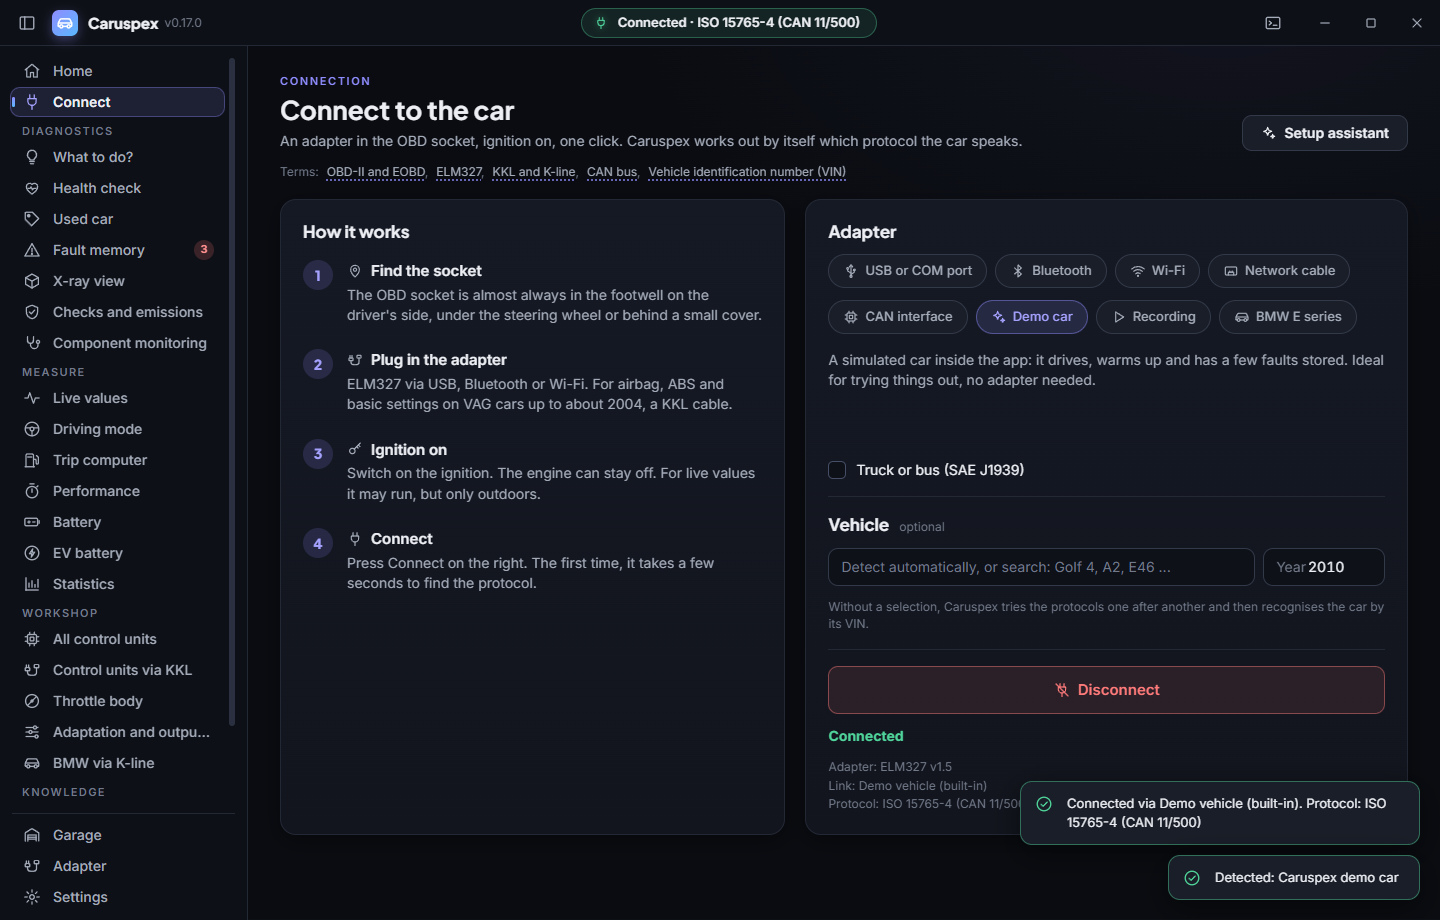
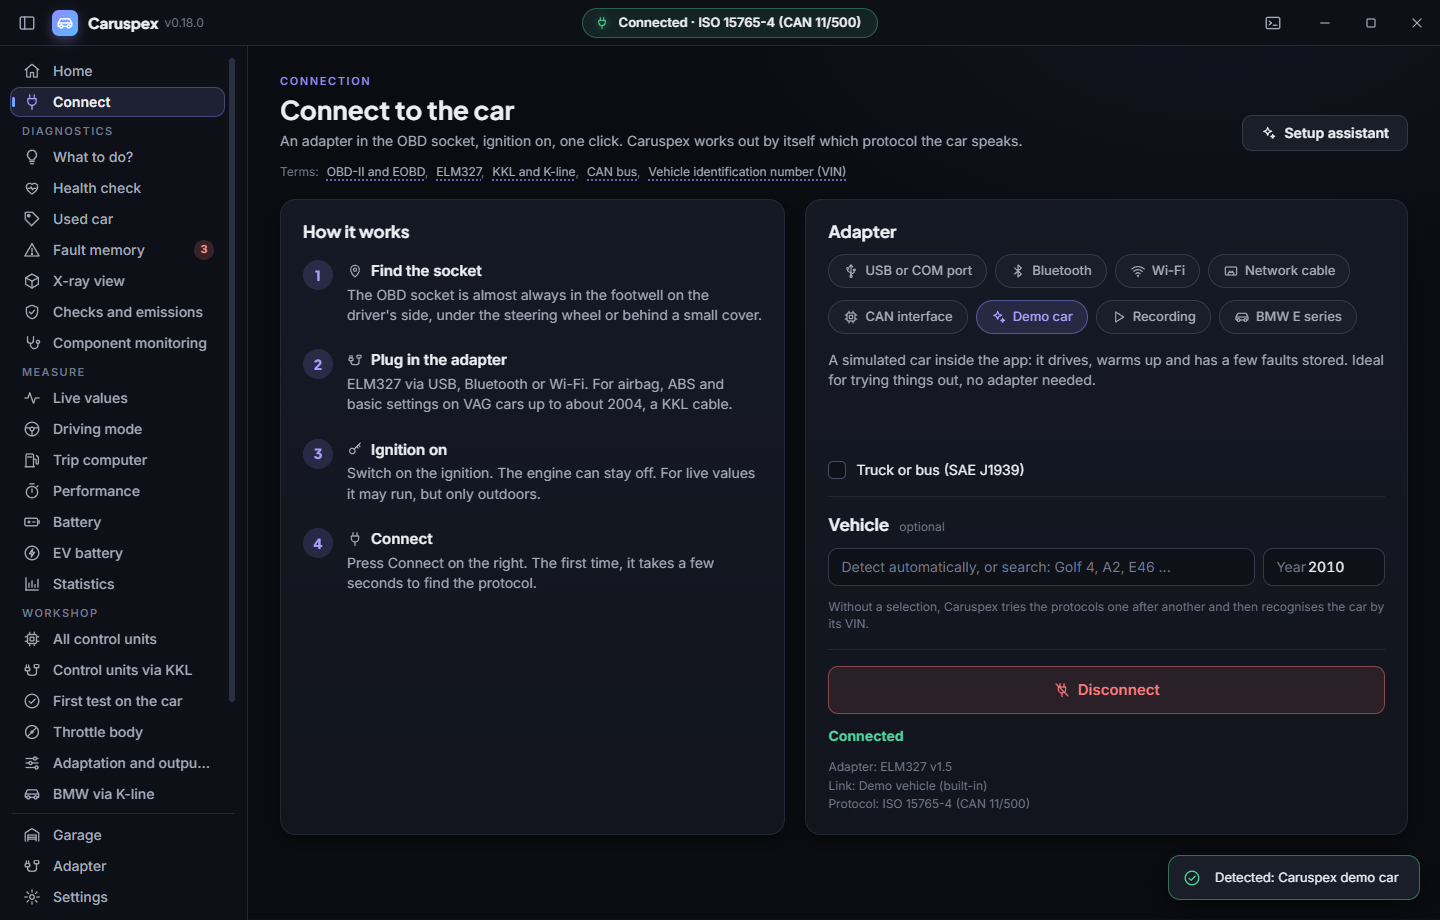
Version 0.18.0 mit Aenderungsliste auf Deutsch und Englisch

diff --git a/changelog/0.18.0.md b/changelog/0.18.0.md
@@ -1,0 +1,55 @@
+## Deutsch
+
+Schneller, sparsamer und sauberer: Live-Werte kommen deutlich schneller, die Oberfläche braucht weniger Speicher, ein erster Test am Audi A2 ist vorbereitet, und alles rund um Lizenzen, Sicherheit und Updates ist aufgeräumt.
+
+**Schneller und sparsamer**
+- Live-Werte: eine Runde mit sechs Werten dauert an einem ELM327 etwa halb so lange, es kommen rund dreimal so viele Werte pro Sekunde an
+- Verbinden geht schneller, das Demo-Auto ist fast sofort da
+- Die Oberfläche startet mit einem kleineren Paket, zeichnet Live-Werte höchstens einmal pro Bild und gar nicht auf versteckten Seiten; der Speicher wächst bei langen Sitzungen kaum noch
+- Die Röntgenansicht gibt Grafikspeicher sauber frei und pausiert im Hintergrund
+
+**Audi A2 und andere VW-Gruppe-Autos mit K-Line**
+- Neue Seite "Erster Test am Auto" für das KKL-Kabel: Kabeltest ohne Auto (Chip, Latenz-Timer), genaue Zeiten der Weckadresse mit klarer Ursache, wenn etwas nicht klappt, dann Schritt für Schritt Motor, Kombiinstrument, ABS, Airbag, Komfort und Zentralelektrik, nur lesend, am Ende ein Testbericht zum Speichern
+- Behoben: Beim Lesen eines Anpassungskanals wurde der Befehl für "Speichern" gesendet statt für "Lesen"
+
+**Updates**
+- Caruspex fragt jetzt einmal, ob es nach Updates suchen soll; ohne Ja geht keine Anfrage an GitHub
+- Mit Ja sucht es beim Start und alle sechs Stunden, eine neue Version zeigt nur einen Knopf in der Titelleiste
+- Kopien, die nie installiert wurden, können sich jetzt auch aktualisieren: der signierte Setup kommt von GitHub
+- Eine Aktualisierung wird nur angenommen, wenn die Signatur genau zu dieser Datei und Version gehört
+
+**Lizenzen, Sicherheit und Datenschutz**
+- Alle Lizenzen der verwendeten Bausteine liegen jedem Paket bei und lassen sich in den Einstellungen ansehen
+- Hinweise zu Sicherheit, Haftung und Marken in der README, der Anleitung und der App
+- Zu jedem Release gibt es eine Stückliste (SBOM), Prüfsummen und einen Herkunftsnachweis des Builds
+- Eine beschädigte Garage-Datei wird nicht mehr überschrieben, sondern als Kopie aufgehoben
+
+Hinweis: Der erste Test am A2 ist nur mit einem nachgebildeten Auto geprüft, noch nicht an einem echten.
+
+## English
+
+Faster, leaner and cleaner: live values arrive much faster, the interface needs less memory, a first test on the Audi A2 is ready, and everything around licences, security and updates is tidied up.
+
+**Faster and leaner**
+- Live values: a round of six values takes about half as long on an ELM327, about three times as many values per second arrive
+- Connecting is faster, the demo car is there almost at once
+- The interface starts with a smaller bundle, draws live values at most once per frame and not at all on hidden pages; memory barely grows in long sessions
+- The X-ray view frees graphics memory properly and pauses in the background
+
+**Audi A2 and other VW group cars with a K-line**
+- New page "First test on the car" for the KKL cable: a cable test without the car (chip, latency timer), the exact timing of the wake-up with a clear reason when something fails, then step by step engine, instrument cluster, ABS, airbag, comfort and central electrics, read only, ending with a test report to save
+- Fixed: reading an adaptation channel sent the command for "save" instead of "read"
+
+**Updates**
+- Caruspex now asks once whether to look for updates; without a yes no request goes to GitHub
+- With a yes it looks at start and every six hours, a new version only shows a button in the title bar
+- Copies that were never installed can now update too: the signed setup comes from GitHub
+- An update is only accepted when its signature belongs to exactly this file and version
+
+**Licences, security and privacy**
+- All licences of the components used ship with every package and can be viewed in the settings
+- Safety, liability and trademark notes in the README, the guide and the app
+- Every release comes with a bill of materials (SBOM), checksums and a build provenance attestation
+- A damaged garage file is no longer overwritten but kept as a copy
+
+Note: the first test on the A2 has only been tested with a simulated car, not yet on a real one.
